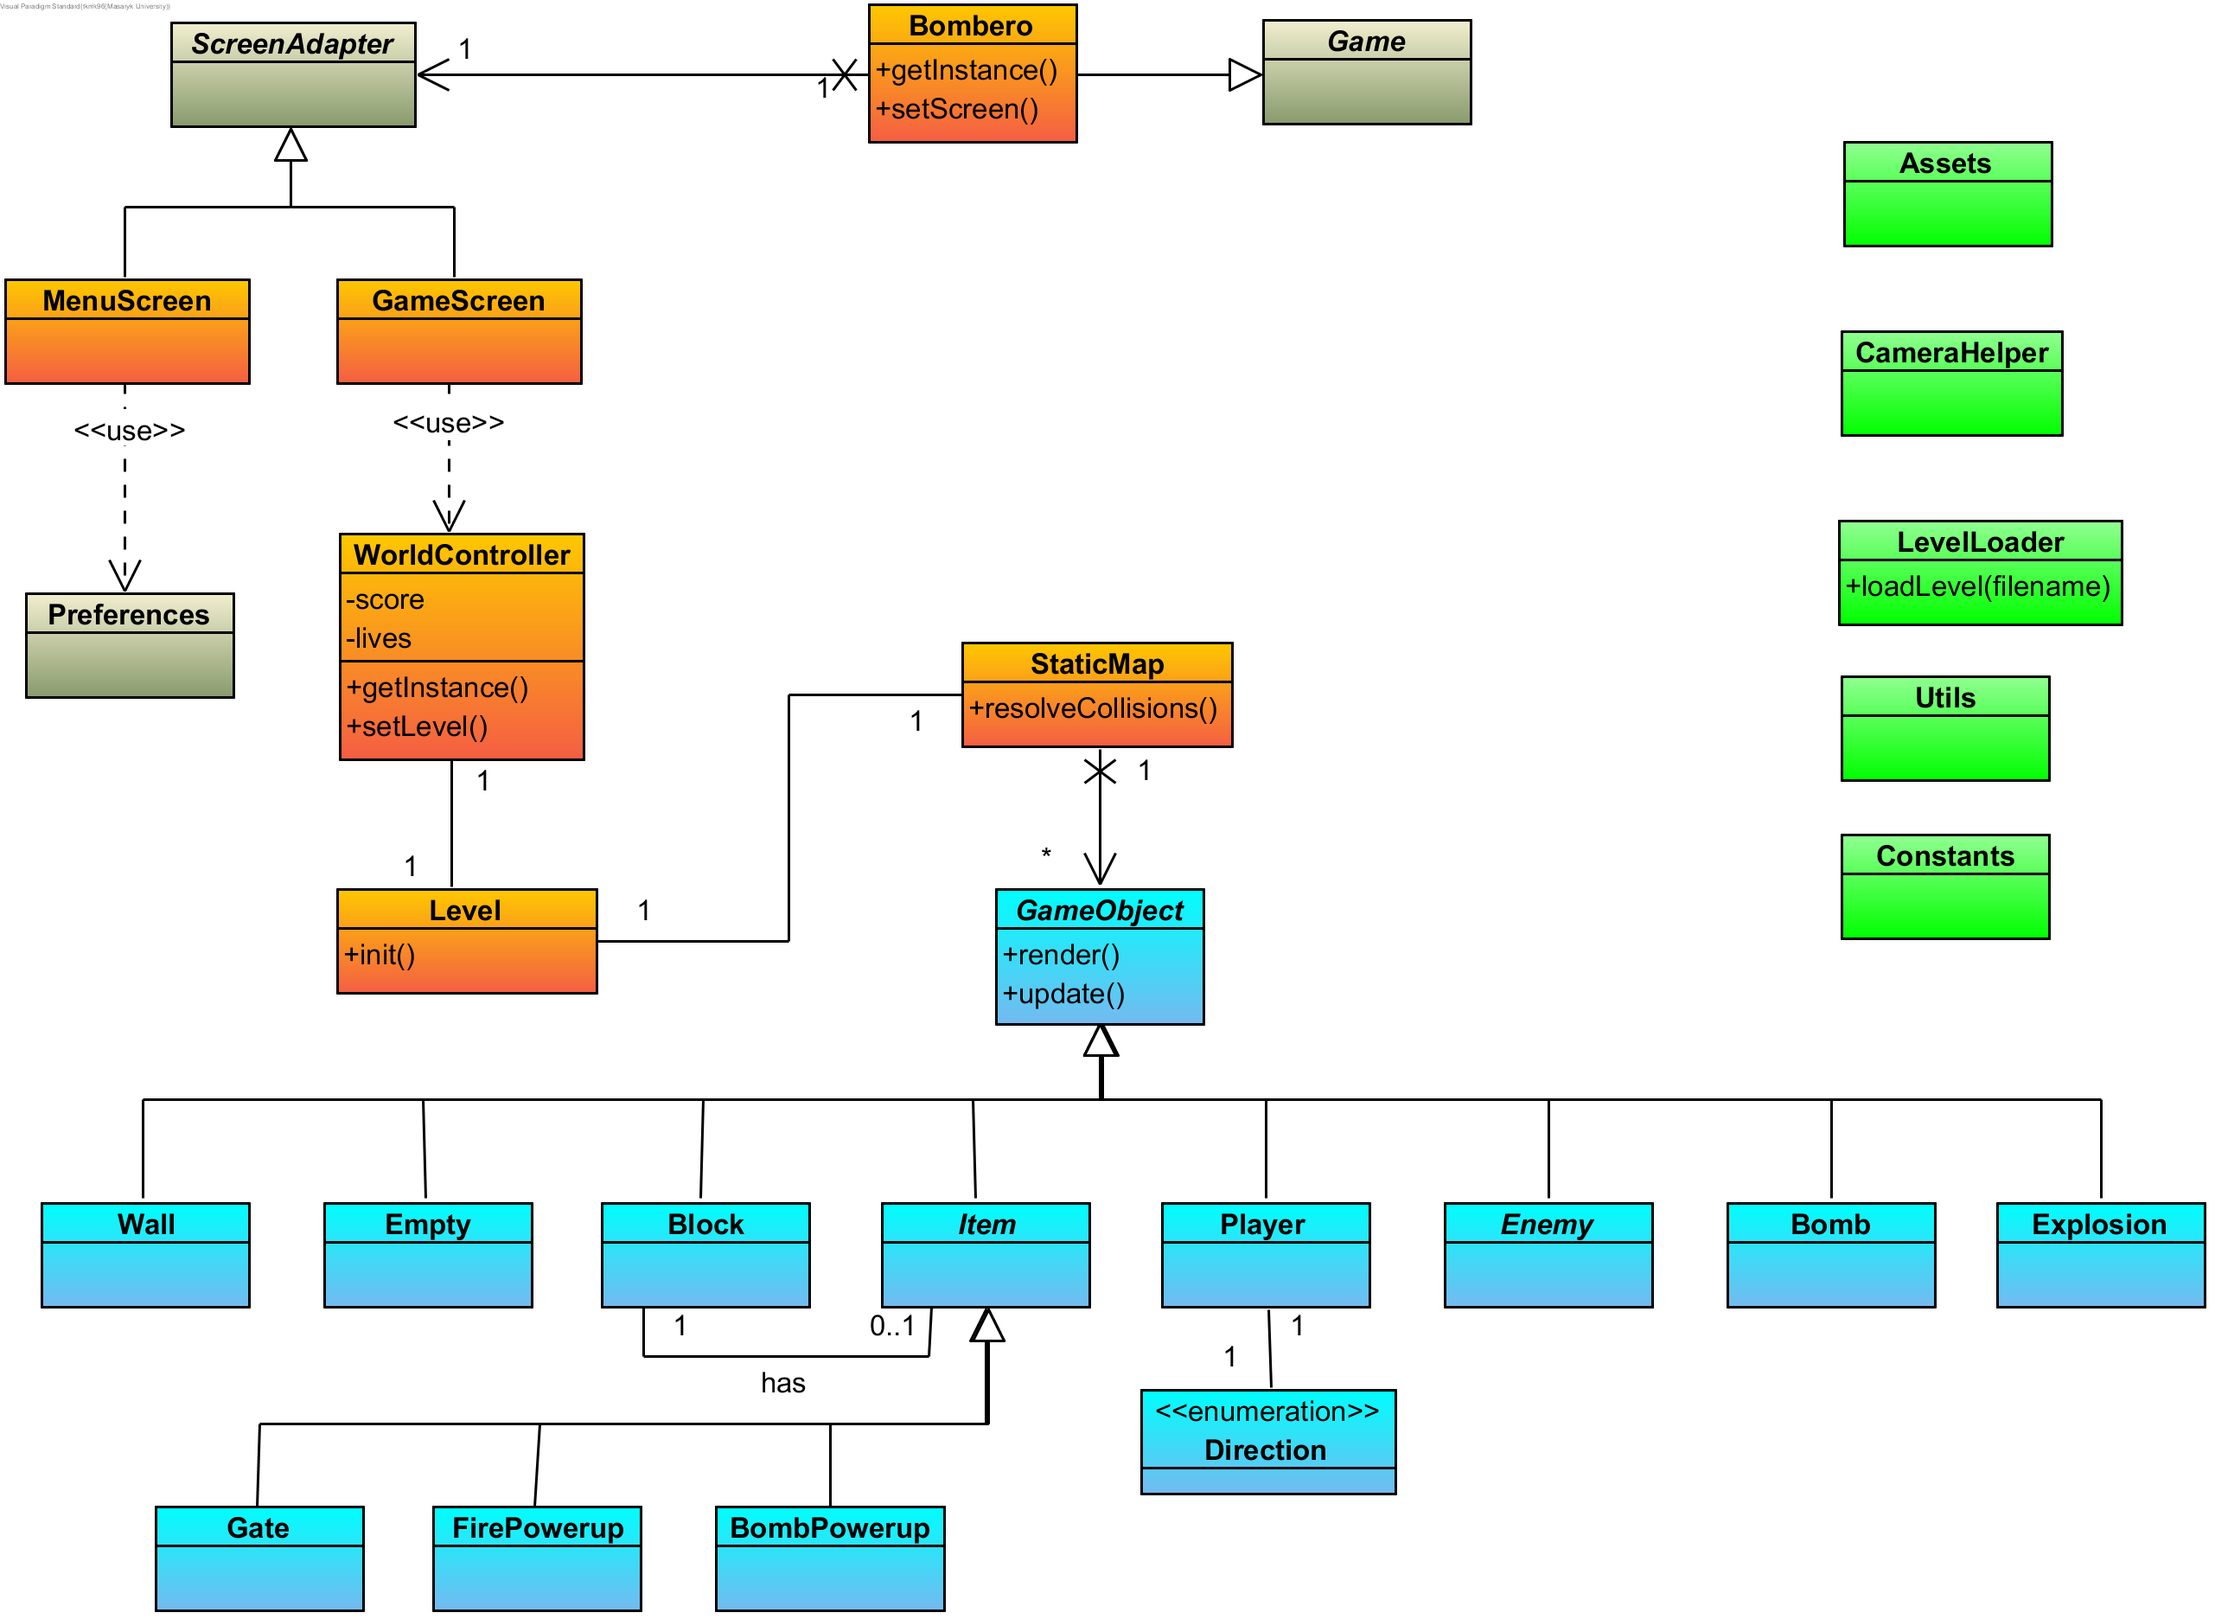
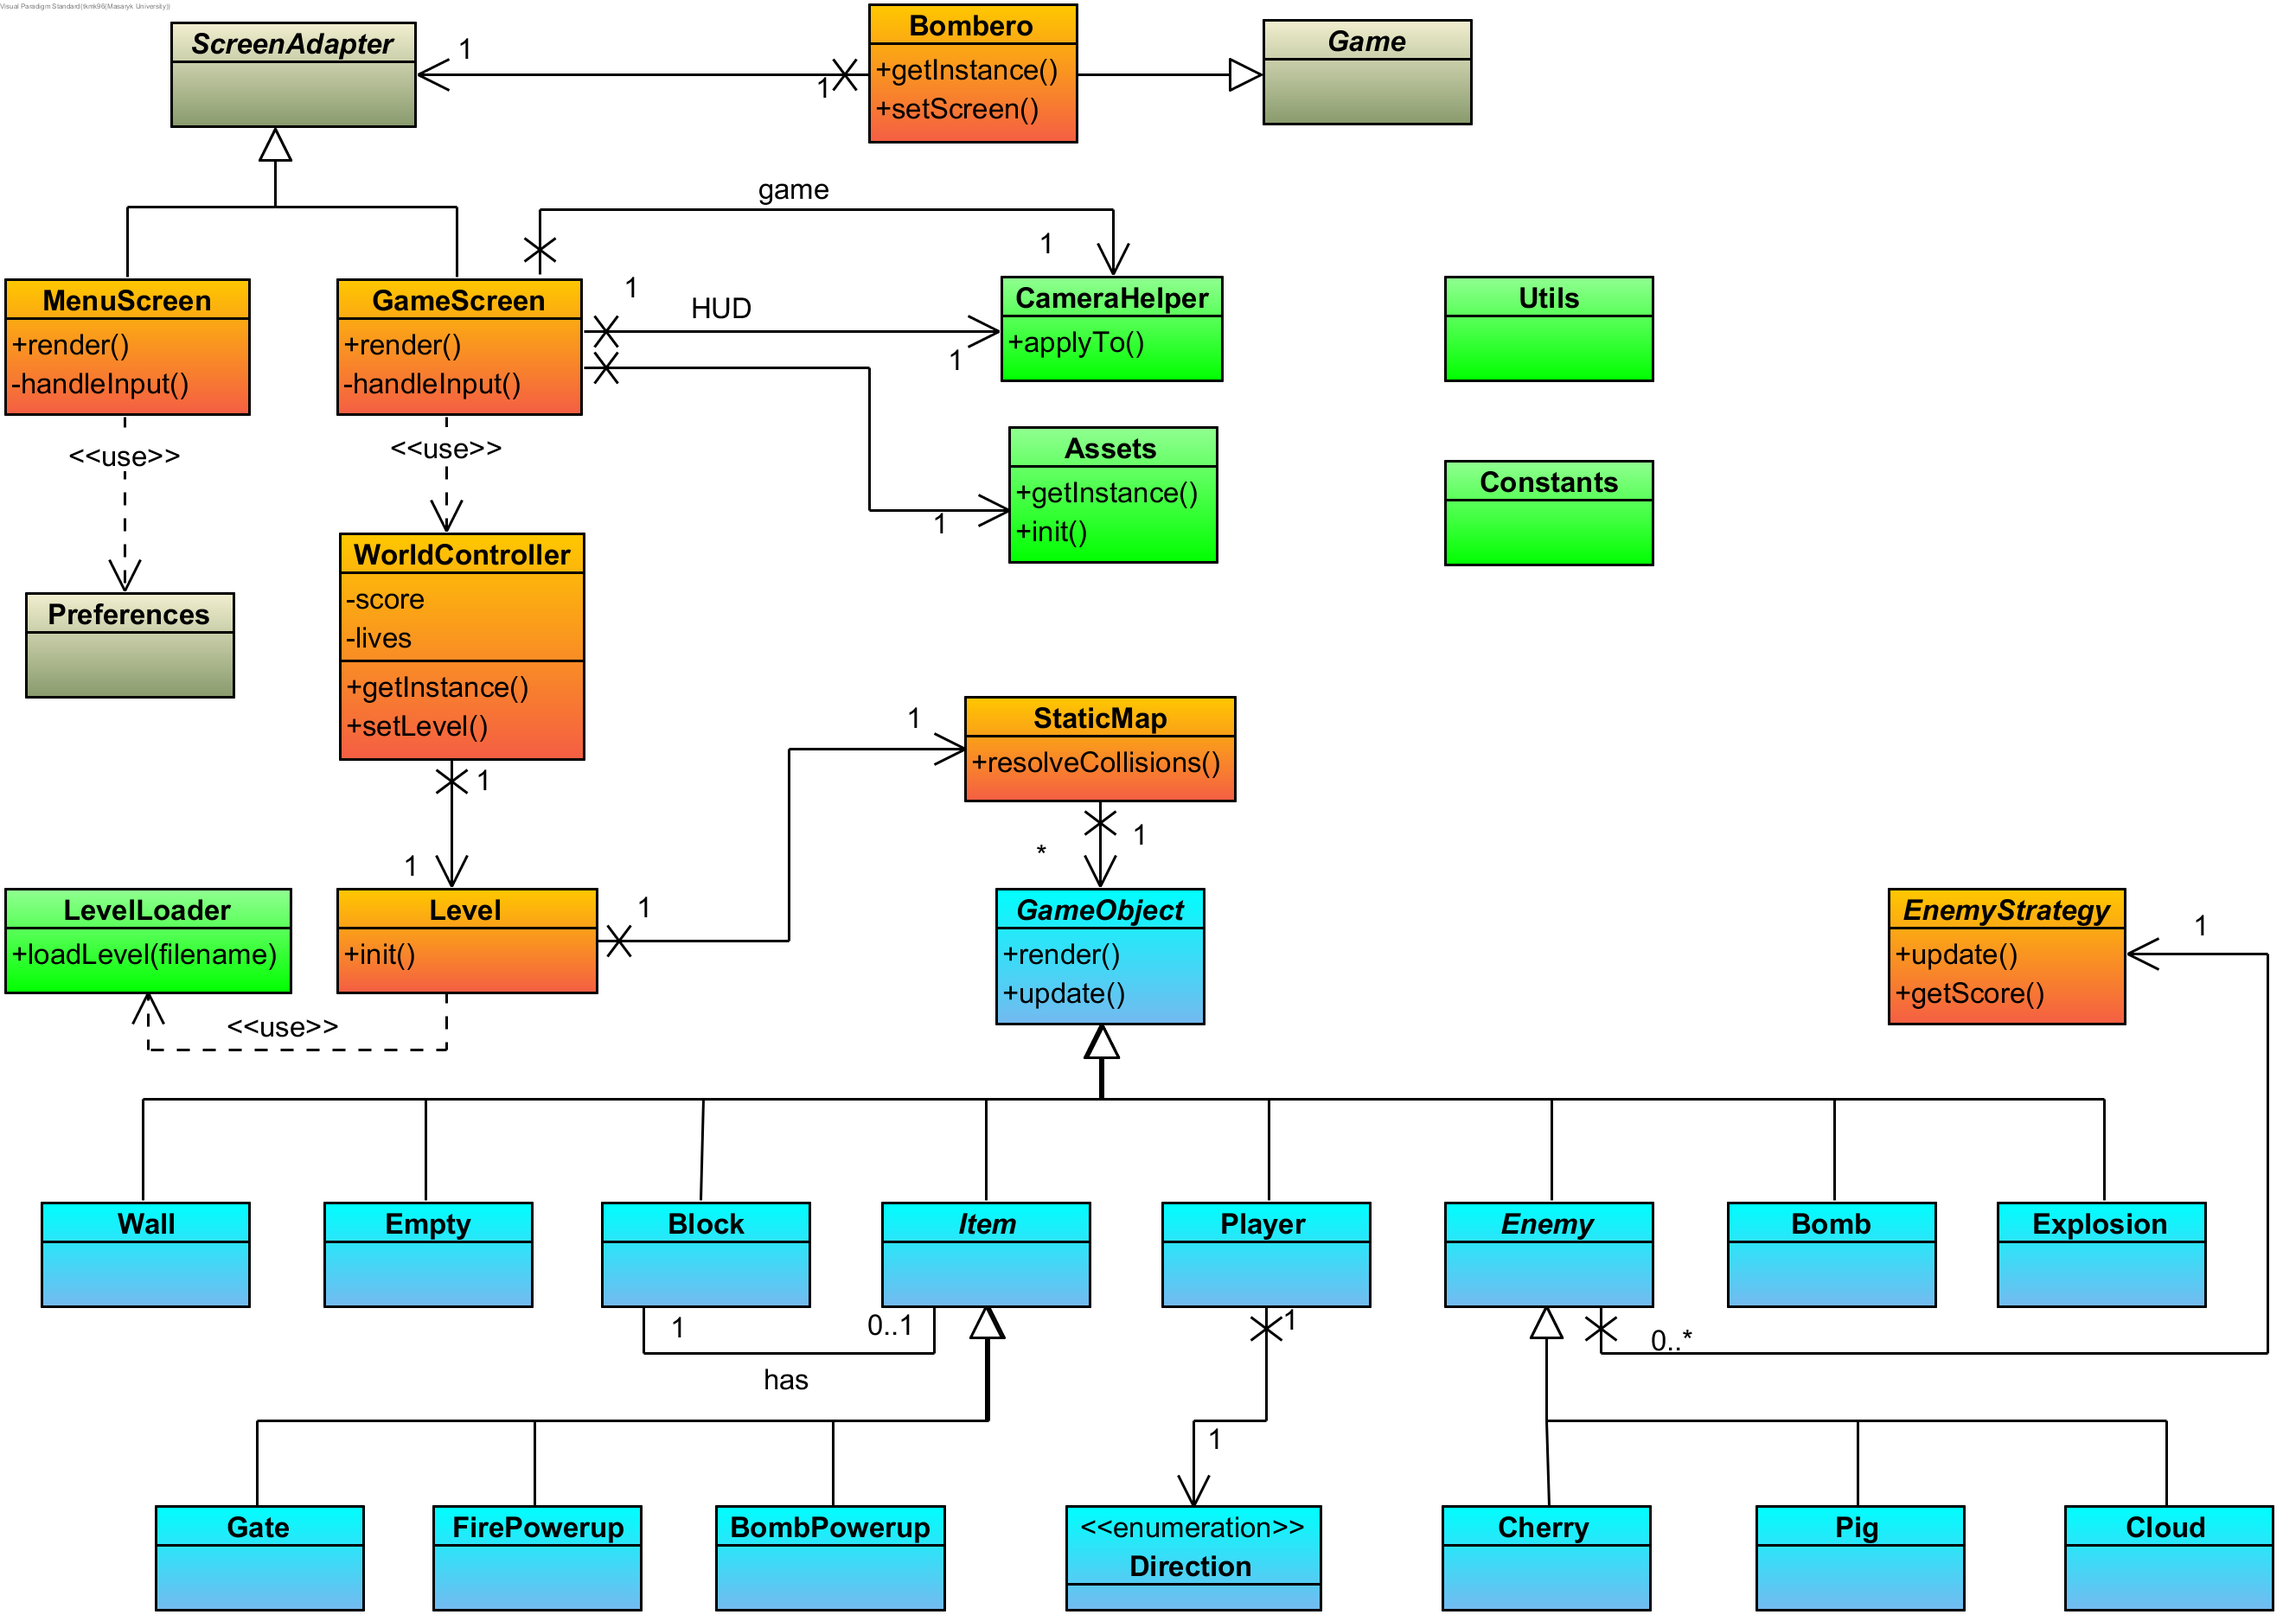
Architecture description added

diff --git a/README.md b/README.md
@@ -1,5 +1,5 @@
 # Bombero
-<img src="img/bomberman_title.png" width="50%"/>
+<img src="img/bomberman_title.png" height="450px" width="100%" />
 
 ## Description
 Bombero is a 2D game similar to Dyna Blaster (Bomberman). 
@@ -15,6 +15,11 @@ Available boms: 1
 
 - **Select level** - opens list of available levels where player can select specific level or return to main menu screen.
 After selecting level game starts in that level with same properties as the New game option.
+
+- **_Options_** - (not guaranteed feature)
+   - opens possible settings such as difficulty (# lives), viewable area of map, music volume ... 
+                
+   - uses libGDX Preferences to store permanent data
 
 - **Exit** - shuts down game.
 
@@ -93,7 +98,39 @@ Map size is defined by image dimensions.
 
 ## Architecture
 ### Class diagram
-<img src="img/ClassDiagram_concept.png" title="Click for full size" alt="Class diagram" width="100%"/>
+Following diagram displays basic concept of game's structure. Diagram focuses on showing connections between classes. 
+
+To keep diagram **_clean_**:
+- some fields are left out (e.g. rendering fields - size, dimensions, position...)
+- some methods (dispose)
+- some classes are not in diagram (specialized EnemyStrategy classes)
+
+<img src="img/ClassDiagram_concept.png" alt="Class diagram" width="100%"/>
+
+There are __four colors__, which distinguish purpose (package) of class:
+
+&nbsp; &nbsp; **1. orange** - main classes, contains logic and game cycle
+
+&nbsp; &nbsp; **2. blue** - entity classes
+
+&nbsp; &nbsp; **3. green** - helper classes
+
+&nbsp; &nbsp; **4. gray** - libGDX classes
+
+### Design patterns
+#### Singleton
+- *Bombero, World controller, Assets*
+- there is just one instance of these classes and it is desirable to have acess to them from other classes
+- getInstance() methods can be replaced with eager initiliazation (initialized with application start) - direct acess (instance is `public static final`)
+
+#### Flyweight
+- *Assets*
+- Each texture is loaded just once
+
+#### Strategy
+- *EnemyStrategy*
+- defines type of enemy - movement and score for elimination
+
 ## Graphics
 
 ## Testing
